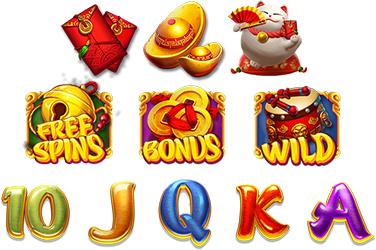
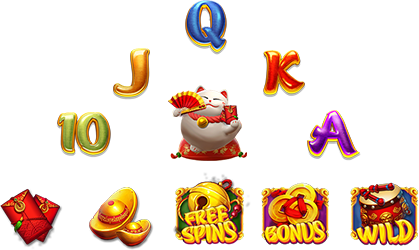
fix: update images

diff --git a/src/components/game-guide/fortune-cat/vi/index.tsx b/src/components/game-guide/fortune-cat/vi/index.tsx
@@ -291,7 +291,7 @@ const FortuneCatGuideVI: React.FC<GameGuideProps<GameConfigProps, {}>> = (props)
                         tượng giống nhau nằm trên cùng một dòng cược mà người chơi đã chọn.
                     </p>
                     <div className={Styles["list-symbol-wrapper"]}>
-                        <img src={`/static/images/fortune-cat/list_icon.png#v1`} alt="guide_item_symbol_bg" />
+                        <img src={`/static/images/fortune-cat/list_icon.png#v2`} alt="guide_item_symbol_bg" />
                     </div>
                 </li>
                 <li className="guide-item">{renderGameRule()}</li>

diff --git a/src/components/game-guide/fortune-cat/en/index.tsx b/src/components/game-guide/fortune-cat/en/index.tsx
@@ -464,7 +464,7 @@ const FortuneCatGuideEN: React.FC<GameGuideProps<GameConfigProps, {}>> = (props)
                         payline that has been chosen.
                     </p>
                     <div className={Styles["list-symbol-wrapper"]}>
-                        <img src={`/static/images/fortune-cat/list_icon.png#v3`} alt="guide_item_symbol_bg" />
+                        <img src={`/static/images/fortune-cat/list_icon.png#v2`} alt="guide_item_symbol_bg" />
                     </div>
                 </li>
                 <li className="guide-item">{renderGameRule()}</li>
